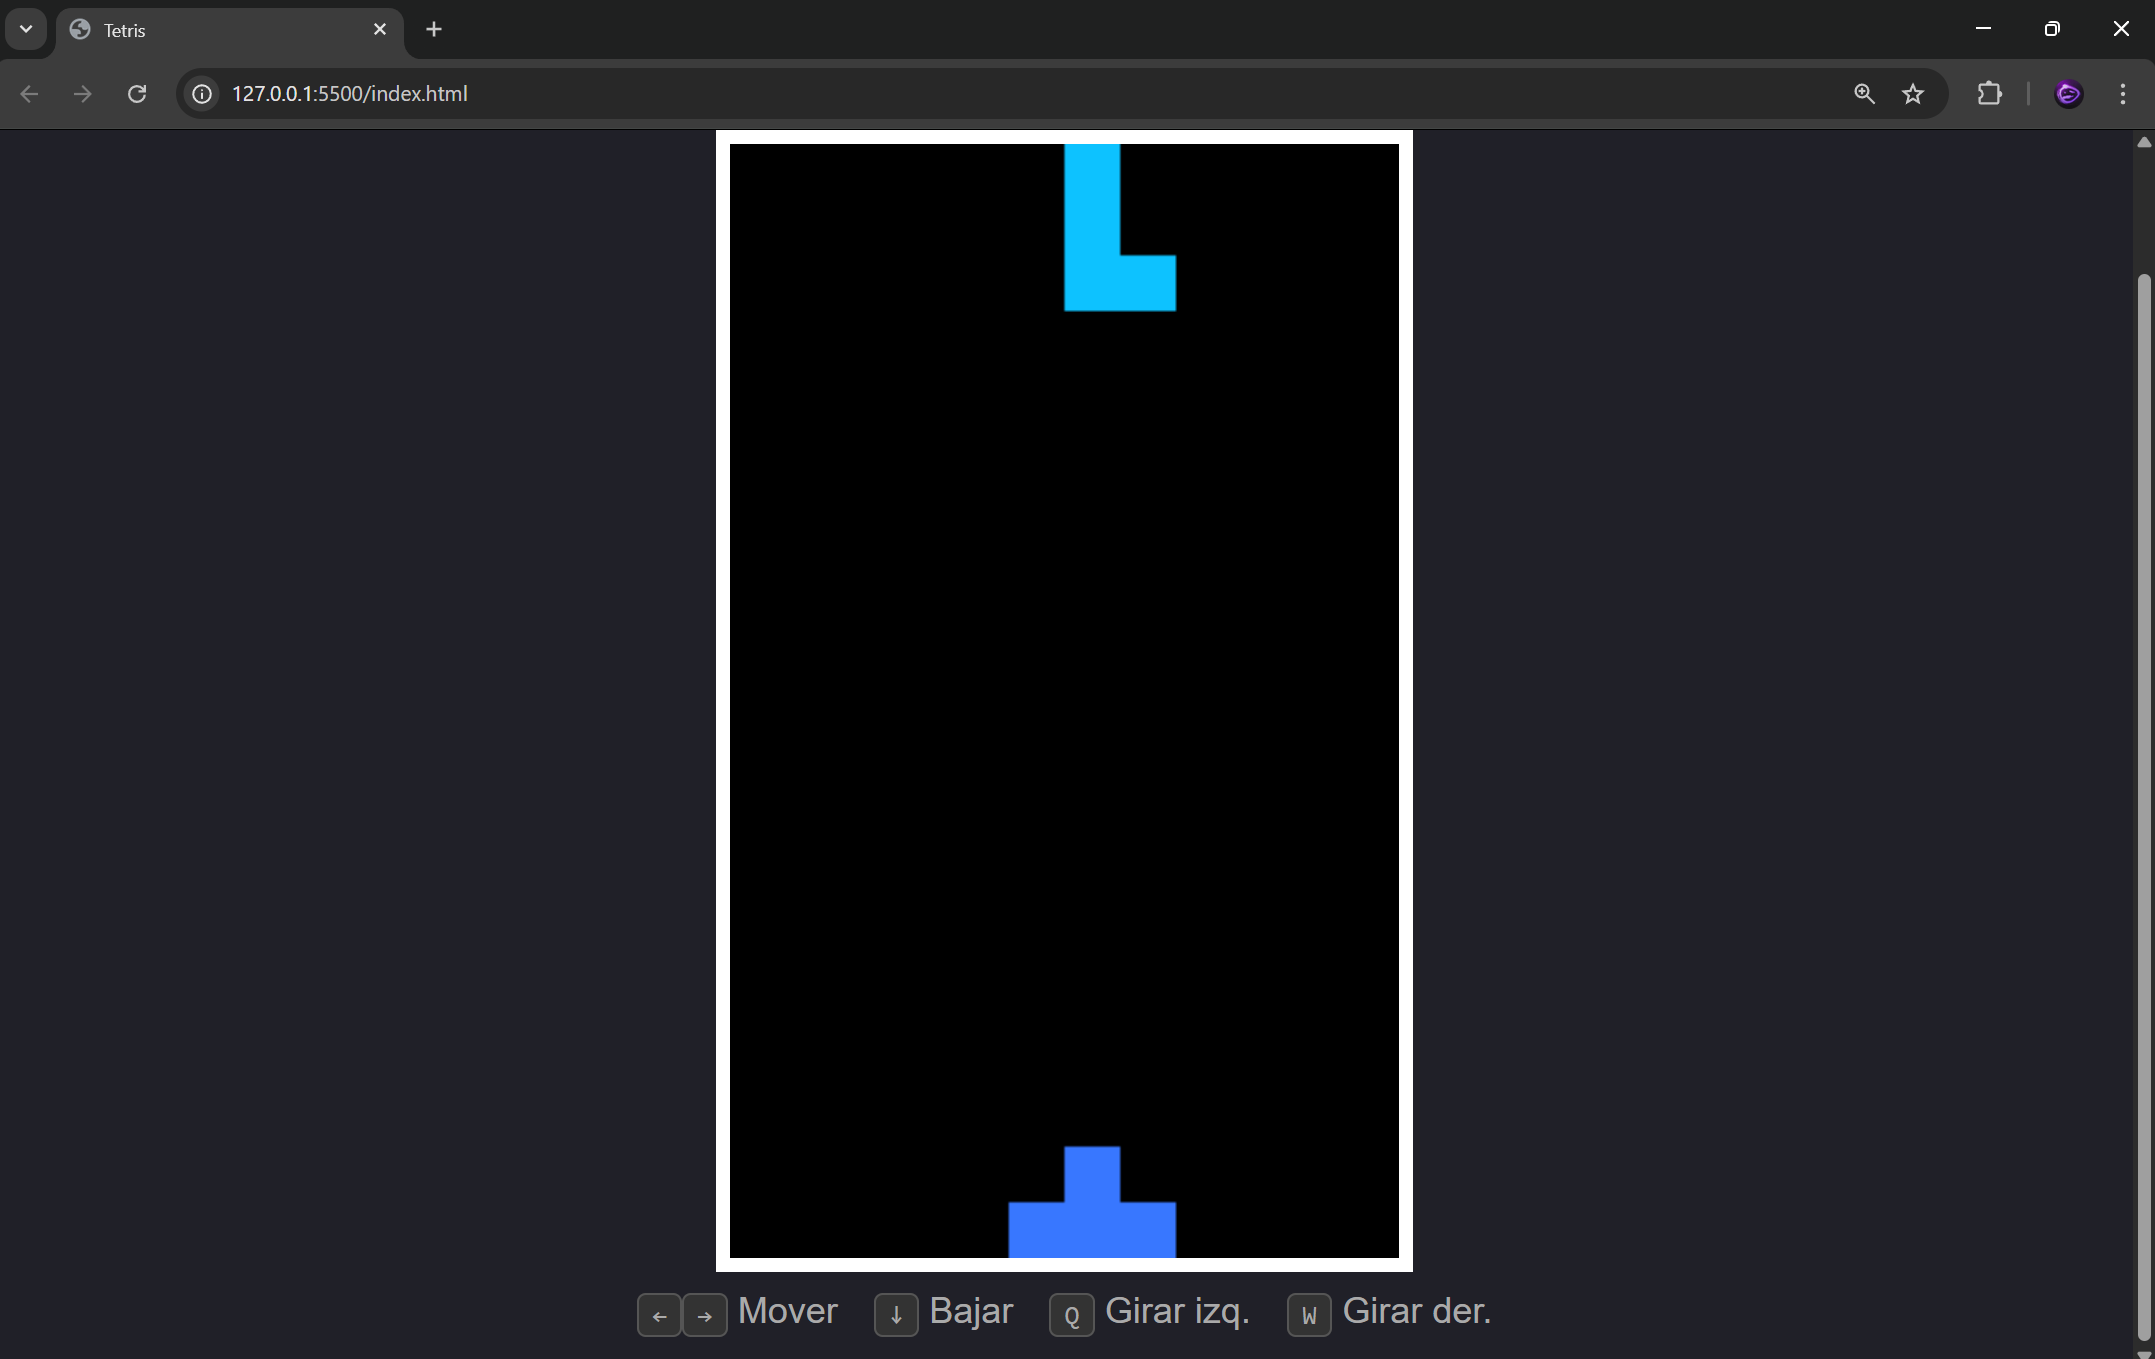
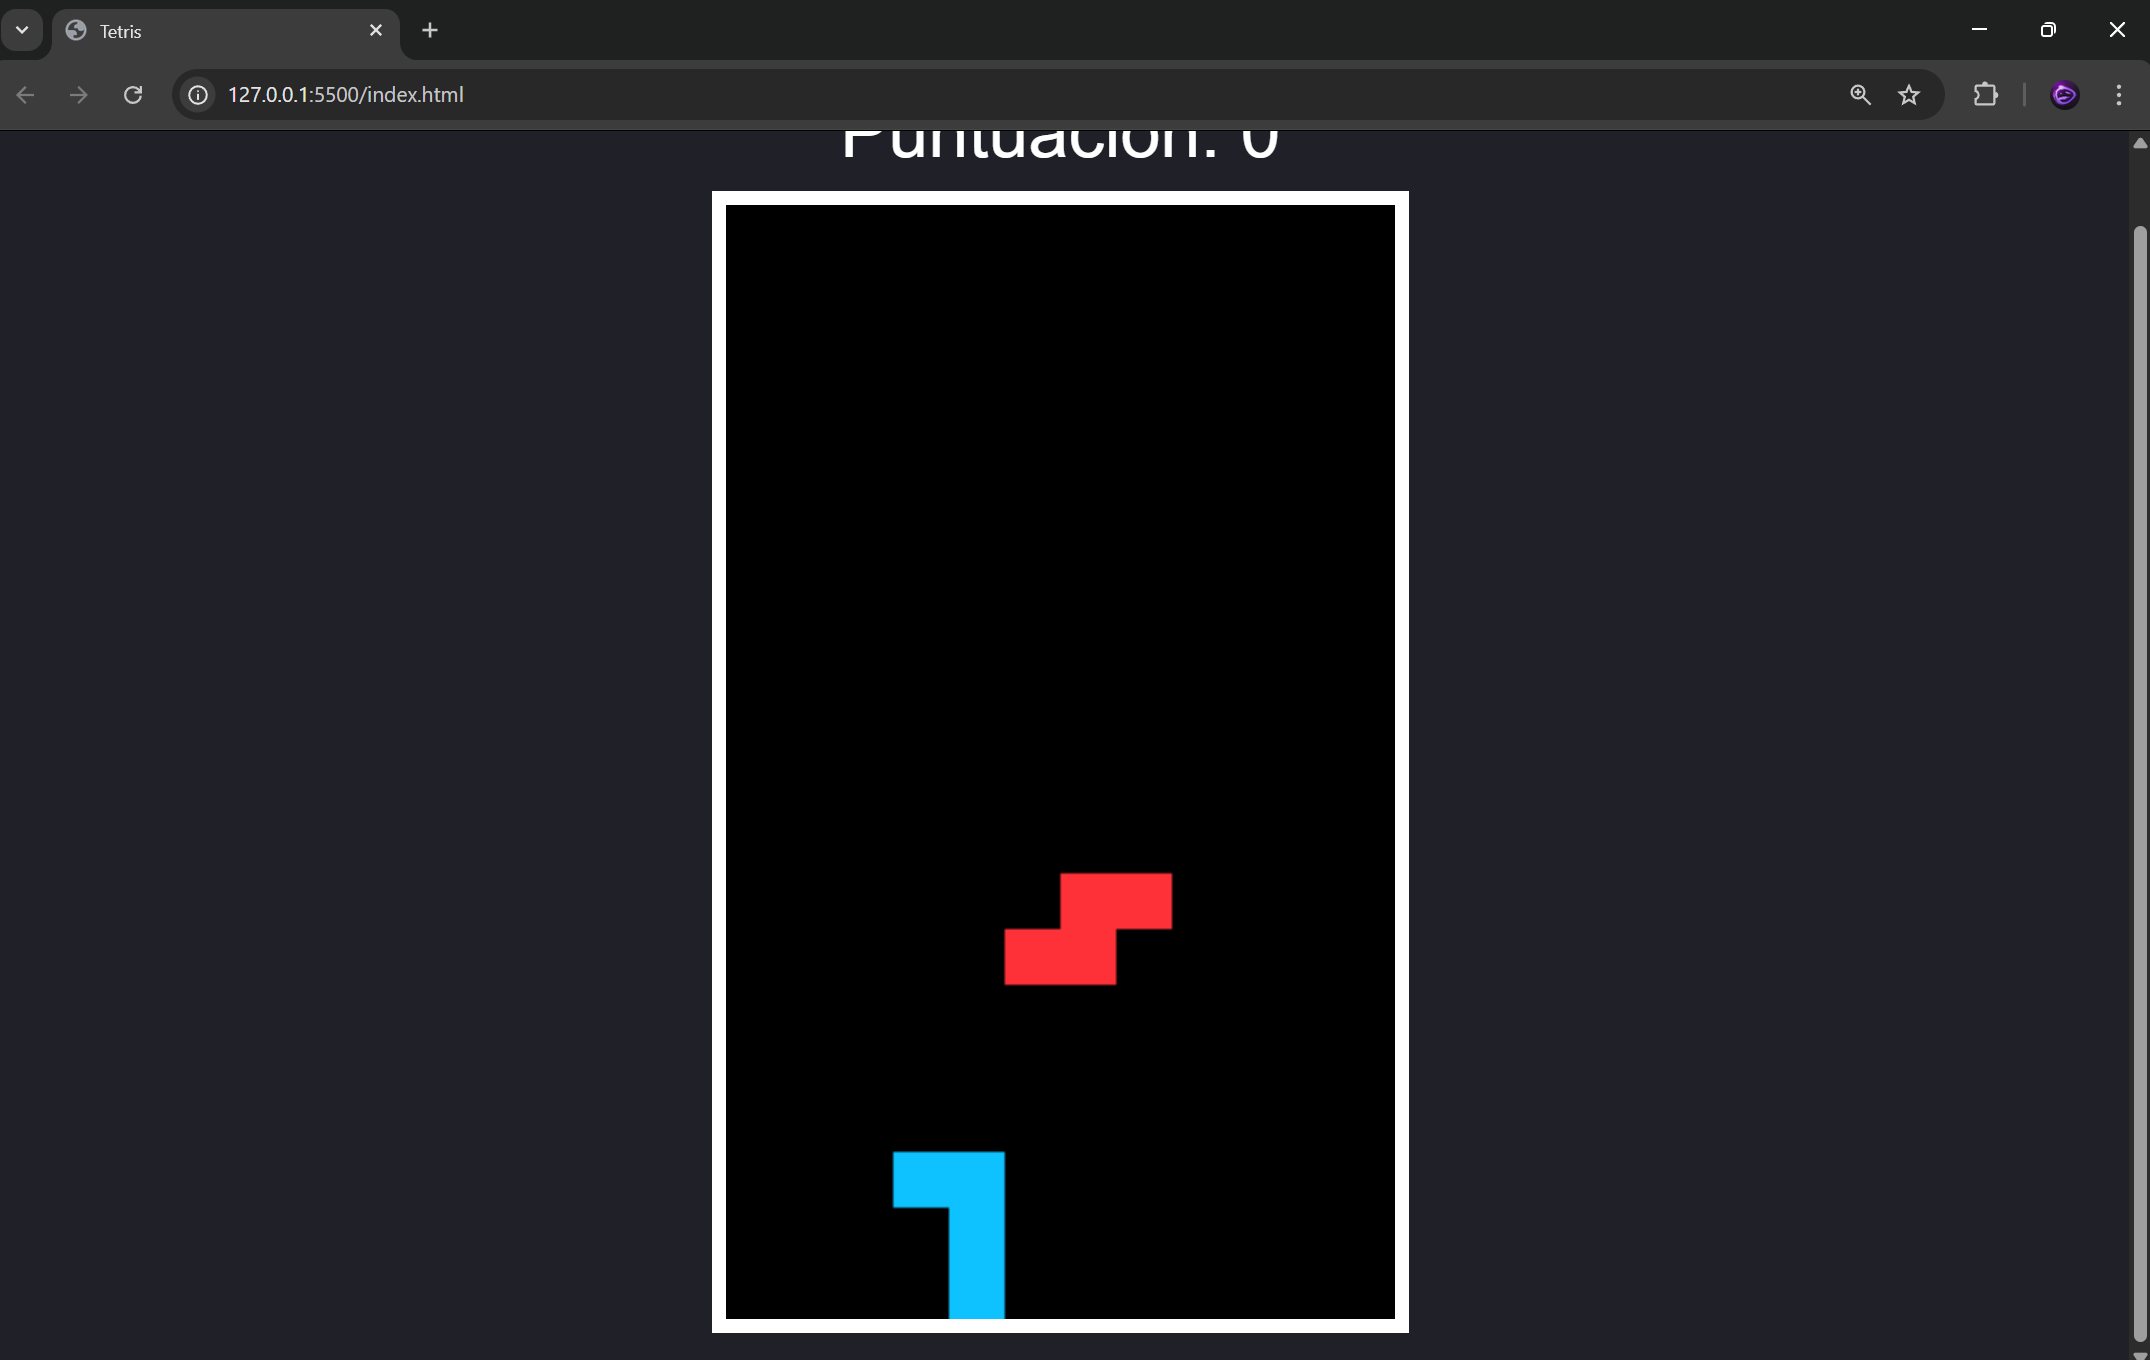
Se hizo un cambio importante en el README.md

diff --git a/index.html b/index.html
@@ -9,12 +9,7 @@
 <body>
     <div id="puntuacion"></div>
     <canvas id="tetris" width="240" height="400"></canvas>
-    <div id="controles">
-        <span><kbd>←</kbd><kbd>→</kbd> Mover</span>
-        <span><kbd>↓</kbd> Bajar</span>
-        <span><kbd>Q</kbd> Girar izq.</span>
-        <span><kbd>W</kbd> Girar der.</span>
-    </div>
+    
     <script src="index.js"></script>
 </body>
 </html>
